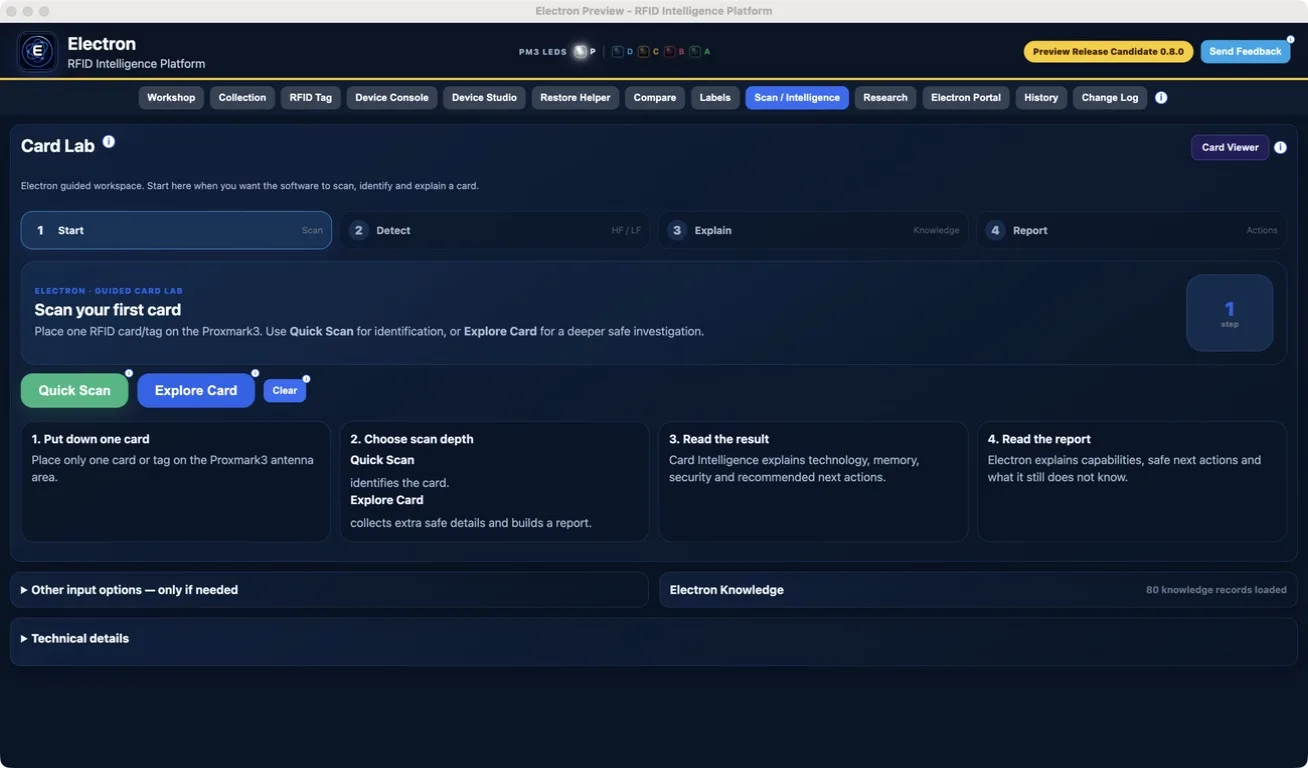
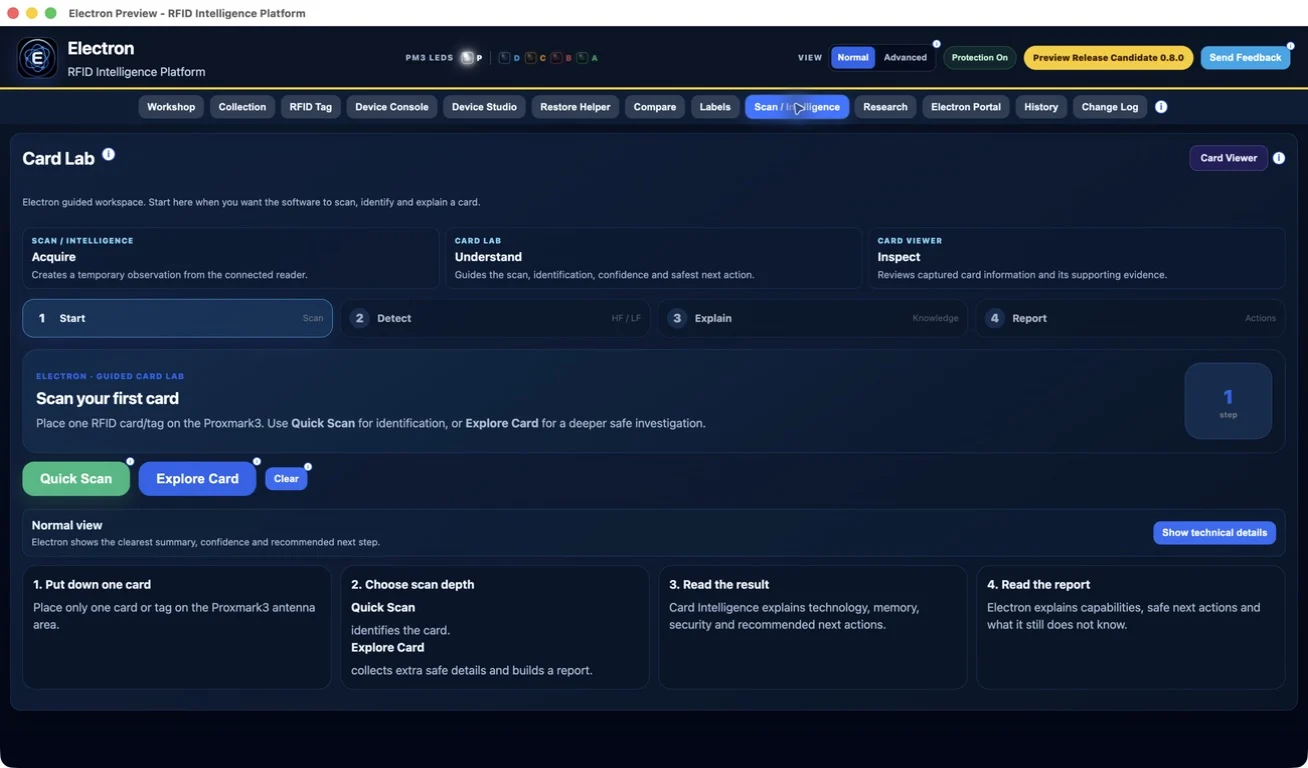
docs(website): publish current Preview screenshots

diff --git a/documentation/public-preview-1/quick-start.html b/documentation/public-preview-1/quick-start.html
@@ -91,7 +91,7 @@ official source and SHA-256. Do not disable operating-system security.</p>
 the same serial device.</p>
 <p>Open <strong>Device Console</strong> and select <strong>Check Device</strong>. If the USB device is
 detected but the session is not connected, select <strong>Connect Device</strong>.</p>
-<p><img src="https://raw.githubusercontent.com/ElectronPlatform/electron-rfid-intelligence-platform/main/docs/screenshots/device-connection-status.png" alt="Device connection status" loading="lazy" /></p>
+<p><img src="../../images/screenshots/device-connection-status.webp" alt="Device connection status" loading="lazy" /></p>
 <p>The status card separates:</p>
 <ul>
 <li><strong>USB device</strong> — whether the computer can see the device;</li>
@@ -101,7 +101,7 @@ detected but the session is not connected, select <strong>Connect Device</strong
 <h2 id="4-run-a-first-safe-scan">4. Run a first safe scan</h2>
 <p>Open <strong>Workshop</strong>, choose <strong>Card Lab</strong>, place one authorised card or tag on the
 reader and select <strong>Quick Scan</strong>.</p>
-<p><img src="https://raw.githubusercontent.com/ElectronPlatform/electron-rfid-intelligence-platform/main/docs/screenshots/card-lab-first-scan.png" alt="Card Lab ready for a first scan" loading="lazy" /></p>
+<p><img src="../../images/screenshots/card-lab-first-scan.webp" alt="Card Lab ready for a first scan" loading="lazy" /></p>
 <p>Keep the item steady until the workflow finishes. The progress panel shows the
 current read-only command and completed steps.</p>
 <h2 id="5-review-the-result">5. Review the result</h2>
@@ -111,13 +111,13 @@ evidence.</p>
 <p>Do not treat a suggested card family or inferred value as chip-reported fact.</p>
 <h2 id="6-save-or-open-an-rfid-tag">6. Save or open an RFID Tag</h2>
 <p>Open <strong>RFID Tag</strong>. The workspace starts without a selected record.</p>
-<p><img src="https://raw.githubusercontent.com/ElectronPlatform/electron-rfid-intelligence-platform/main/docs/screenshots/rfid-tag-no-selection.png" alt="No RFID Tag selected" loading="lazy" /></p>
+<p><img src="../../images/screenshots/rfid-tag-no-selection.webp" alt="No RFID Tag selected" loading="lazy" /></p>
 <ul>
 <li>Select <strong>New RFID Tag</strong> to create a record.</li>
 <li>Select <strong>Open RFID Tag...</strong> to use an existing Collection record.</li>
 <li>Search by RFID Tag ID or Alias / Name, select one result and choose <strong>Open</strong>.</li>
 </ul>
-<p><img src="https://raw.githubusercontent.com/ElectronPlatform/electron-rfid-intelligence-platform/main/docs/screenshots/rfid-tag-picker-empty-search.png" alt="RFID Tag Picker with no matching records" loading="lazy" /></p>
+<p><img src="../../images/screenshots/rfid-tag-picker-empty-search.webp" alt="RFID Tag Picker with no matching records" loading="lazy" /></p>
 <h2 id="7-get-help-or-send-feedback">7. Get help or send feedback</h2>
 <p>Use the information buttons beside controls for contextual help. Select
 <strong>Send Feedback</strong> in the application header to prepare a local feedback

diff --git a/scripts/build-docs.js b/scripts/build-docs.js
@@ -12,6 +12,7 @@ const outputDirectory = path.join(root, "documentation", "public-preview-1");
 const stagingDirectory = path.join(root, ".documentation-staging");
 const templatePath = path.join(root, "templates", "documentation.html");
 const checkOnly = process.argv.includes("--check");
+const publicScreenshotPrefix = "https://raw.githubusercontent.com/ElectronPlatform/electron-rfid-intelligence-platform/main/docs/screenshots/";
 
 const documents = [
   {
@@ -113,6 +114,17 @@ function rewriteDocumentHref(href) {
   return fragment ? `${output}#${fragment}` : output;
 }
 
+function localWebsiteScreenshot(source) {
+  if (!source || !source.startsWith(publicScreenshotPrefix)) {
+    return source;
+  }
+  const filename = source.slice(publicScreenshotPrefix.length);
+  if (!/^[a-z0-9][a-z0-9-]*\.png$/i.test(filename)) {
+    throw new Error(`Unsupported public screenshot path: ${source}`);
+  }
+  return `../../images/screenshots/${filename.replace(/\.png$/i, ".webp")}`;
+}
+
 function renderMarkdown(source) {
   const parsed = marked.parse(source, { gfm: true });
   const dom = new JSDOM(`<body>${parsed}</body>`);
@@ -131,6 +143,7 @@ function renderMarkdown(source) {
   });
 
   document.querySelectorAll("img").forEach(image => {
+    image.setAttribute("src", localWebsiteScreenshot(image.getAttribute("src")));
     image.setAttribute("loading", "lazy");
   });
 

diff --git a/README.md b/README.md
@@ -83,6 +83,11 @@ Documentation page links to generated, branded HTML under
 website. Do not publish internal plans, handoffs, constitutions or unfinished
 legal drafts in this folder.
 
+The HTML generator resolves approved public-documentation screenshots to the
+optimised local WebP copies under `images/screenshots/`. This keeps visitor
+pages fast and prevents their presentation from depending on GitHub's raw-file
+service.
+
 The Public Preview 1 snapshot currently contains the Installation Guide, Quick
 Start, User Guide, Public Preview Notice, Known Limitations and Issues, FAQ,
 Support Guide, Release Notes and Changelog. Keep these generated from the
